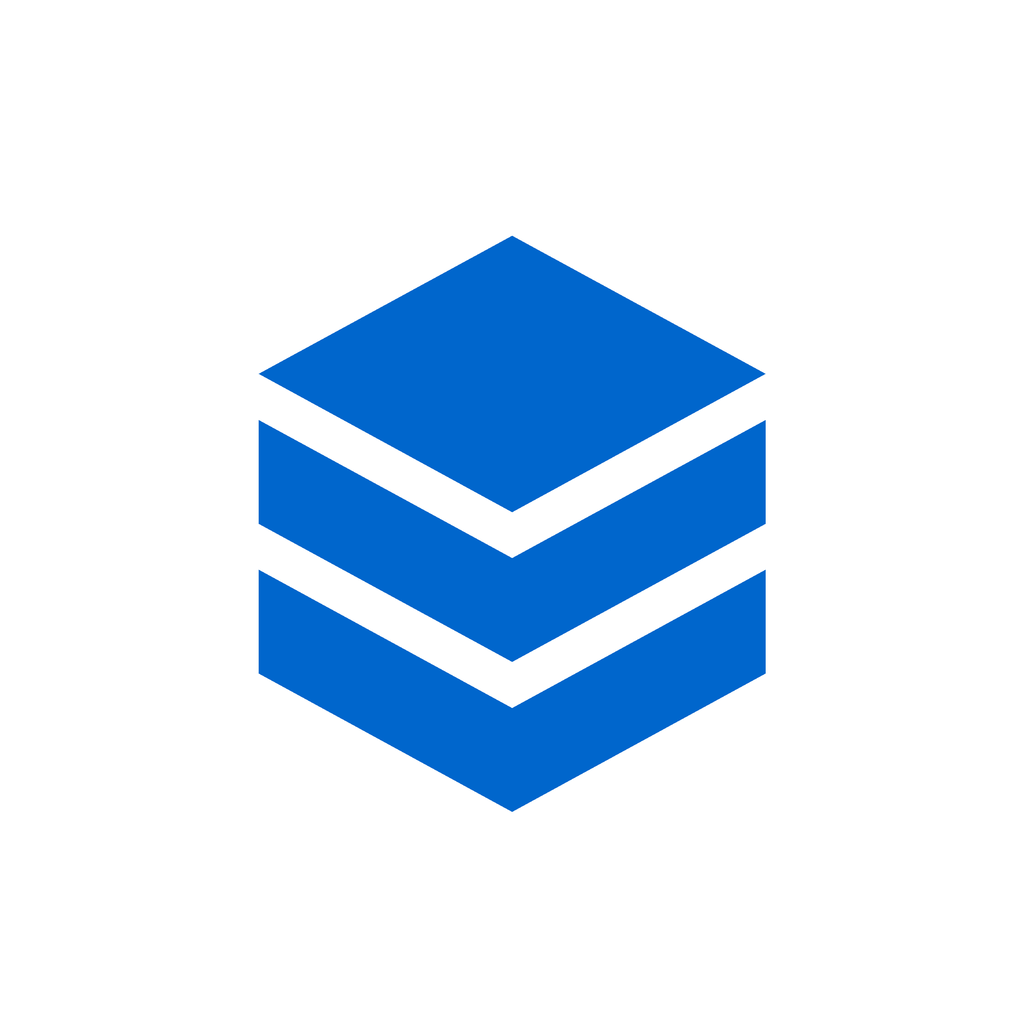
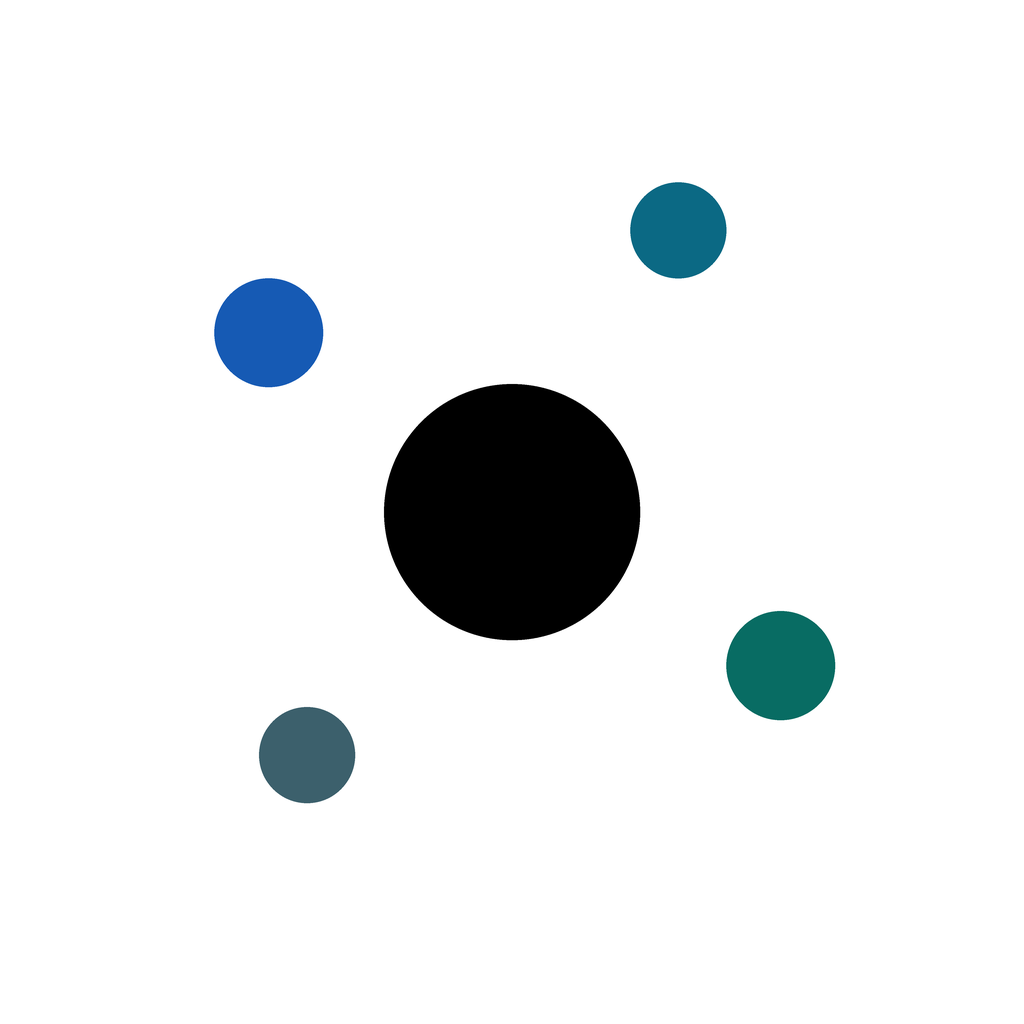
Refine memory mark and hide missing update timestamps

Changed region(s): [[0.1875, 0.1562, 0.8125, 0.8125]]

diff --git a/app/src/components/icons.tsx b/app/src/components/icons.tsx
@@ -1,5 +1,6 @@
 import { Pressable, View } from "react-native";
-import Svg, { Path, Rect } from "react-native-svg";
+import Svg, { Circle, Path } from "react-native-svg";
+import { markColors, markGeometry } from "../../lib/mark";
 import { useTheme } from "../theme";
 
 export type IconName = "brief" | "memory" | "search" | "status" | "settings" | "plus" | "chevron" | "refresh" | "close" | "link";
@@ -30,9 +31,9 @@ export function IconButton({ name, label, onPress, disabled }: { name: IconName;
 }
 export function Mark({ small = false }: { small?: boolean }) {
   const t = useTheme();
-  return <View accessibilityLabel="Metaharness"><Svg width={small ? 24 : 44} height={small ? 24 : 44} viewBox="0 0 64 64" aria-hidden>
-    <Path d="M10 37 32 49 54 37v9L32 58 10 46z" fill={t.accent} />
-    <Path d="M10 24 32 36 54 24v9L32 45 10 33z" fill={t.accent} />
-    <Path d="M10 20 32 8 54 20 32 32z" fill={t.accent} />
+  const colors = markColors(t.dark);
+  return <View accessibilityLabel="Metaharness"><Svg testID="memory-mark" width={small ? 29 : 44} height={small ? 29 : 44} viewBox={`0 0 ${markGeometry.size} ${markGeometry.size}`} aria-hidden>
+    {markGeometry.agents.map((agent, index) => <Circle key={agent.source} cx={agent.x} cy={agent.y} r={agent.radius} fill={colors.agents[index]} />)}
+    <Circle cx={markGeometry.center.x} cy={markGeometry.center.y} r={markGeometry.center.radius} fill={colors.center} />
   </Svg></View>;
 }

diff --git a/app/src/app/index.tsx b/app/src/app/index.tsx
@@ -27,7 +27,7 @@ export default function Brief() {
       {parsed.preamble ? <View style={{ marginBottom: 16 }}><Markdown text={parsed.preamble} /></View> : null}
       {value.status && value.status.pending_notes > 0 ? <Txt muted style={{ fontSize: 13, marginBottom: 16 }}>{value.status.pending_notes} {value.status.pending_notes === 1 ? "note" : "notes"} pending sync</Txt> : null}
       {parsed.sections.map((section, index) => <Collapsible key={`${index}-${section.title}`} title={sectionTitle(section.title)}
-        meta={!isJournal(section.title) ? <Txt muted style={{ fontSize: 12 }}>{synced ? `Synced ${relativeTime(synced).replace(/^(Just|Today|Yesterday|Tomorrow|In)/, word => word.toLowerCase())}` : "Update time not recorded"}</Txt> : undefined}>
+        meta={!isJournal(section.title) && synced ? <Txt muted style={{ fontSize: 12 }}>{`Synced ${relativeTime(synced).replace(/^(Just|Today|Yesterday|Tomorrow|In)/, word => word.toLowerCase())}`}</Txt> : undefined}>
         {isJournal(section.title) ? <JournalContent text={section.text} /> : <Markdown text={section.text} />}
       </Collapsible>)}
       {!value.context.trim() ? <Empty title="No shared context yet" action={<Action label="Remember" onPress={openCapture} />} /> : null}

diff --git a/app/src/components/provenance.tsx b/app/src/components/provenance.tsx
@@ -15,7 +15,7 @@ export function Provenance({ source, timestamp, dateOnly = false, file }: { sour
       <Txt style={{ color: colors.foreground, fontSize: 12, lineHeight: 18, fontWeight: "600" }}>{source}</Txt>
     </View> : <Txt muted style={{ fontSize: 12, lineHeight: 18 }}>Author not recorded</Txt>}
     {file ? <Txt mono muted>{file}</Txt> : null}
-    <Txt testID="provenance-time" muted style={{ fontSize: 12, lineHeight: 18 }} accessibilityLabel={timestamp ? `Recorded ${timestamp}` : undefined}>{relativeTime(timestamp, dateOnly, now)}</Txt>
+    {timestamp && Number.isFinite(Date.parse(timestamp)) ? <Txt testID="provenance-time" muted style={{ fontSize: 12, lineHeight: 18 }} accessibilityLabel={`Recorded ${timestamp}`}>{relativeTime(timestamp, dateOnly, now)}</Txt> : null}
   </View>;
 }
 export function JournalContent({ text }: { text: string }) {

diff --git a/app/lib/mark.ts b/app/lib/mark.ts
@@ -1,0 +1,21 @@
+import { sourceColors } from "./provenance.ts";
+
+// Shared vector geometry for the native logo and every exported asset.
+// Separate agent observations converge on one larger, neutral memory dot.
+export const markGeometry = {
+  size: 64,
+  center: { x: 32, y: 32, radius: 10 },
+  agents: [
+    { source: "codex", x: 13, y: 18, radius: 4.25 },
+    { source: "claude-code", x: 45, y: 10, radius: 3.75 },
+    { source: "cli", x: 53, y: 44, radius: 4.25 },
+    { source: "interview", x: 16, y: 51, radius: 3.75 },
+  ],
+};
+
+export function markColors(dark: boolean) {
+  return {
+    center: dark ? "#FFFFFF" : "#000000",
+    agents: markGeometry.agents.map(agent => sourceColors(agent.source, dark).foreground),
+  };
+}

diff --git a/app/scripts/make-assets.py b/app/scripts/make-assets.py
@@ -1,27 +1,46 @@
-"""Render the layered-memory symbol. Pillow is only an authoring dependency."""
+"""Render the shared agent-and-memory mark. Requires Node and Pillow."""
+import json
+import subprocess
 from pathlib import Path
 from PIL import Image, ImageDraw
 
-OUT = Path(__file__).resolve().parent.parent / "assets"
+APP = Path(__file__).resolve().parent.parent
+OUT = APP / "assets"
 OUT.mkdir(exist_ok=True)
-LAYERS = [
-    [(10, 37), (32, 49), (54, 37), (54, 46), (32, 58), (10, 46)],
-    [(10, 24), (32, 36), (54, 24), (54, 33), (32, 45), (10, 33)],
-    [(10, 20), (32, 8), (54, 20), (32, 32)],
-]
+# The SVG logo and raster exports use identical geometry and source colors.
+DATA = json.loads(subprocess.check_output([
+    "node", "--experimental-strip-types", "--input-type=module", "-e",
+    "import {pathToFileURL} from 'node:url'; "
+    "const {markGeometry,markColors}=await import(pathToFileURL(process.argv[1]).href); "
+    "process.stdout.write(JSON.stringify({geometry:markGeometry,light:markColors(false),dark:markColors(true)}));",
+    str(APP / "lib/mark.ts"),
+], text=True))
 
 
-def mark(size, background, foreground):
-    canvas = Image.new("RGB", (size * 3, size * 3), background)
+def mark(size, dark=False, inset=0.1):
+    canvas = Image.new("RGB", (size * 4, size * 4), "#000000" if dark else "#FFFFFF")
     draw = ImageDraw.Draw(canvas)
-    scale = size * 3 * 0.72 / 64
-    offset = size * 3 * 0.14
-    for points in LAYERS:
-        draw.polygon([(round(offset + x * scale), round(offset + y * scale)) for x, y in points], fill=foreground)
+    geometry = DATA["geometry"]
+    colors = DATA["dark" if dark else "light"]
+    scale = size * 4 * (1 - 2 * inset) / geometry["size"]
+    offset = size * 4 * inset
+    def dot(point, color):
+        x, y, radius = offset + point["x"] * scale, offset + point["y"] * scale, point["radius"] * scale
+        draw.ellipse((x - radius, y - radius, x + radius, y + radius), fill=color)
+    for point, color in zip(geometry["agents"], colors["agents"]):
+        dot(point, color)
+    dot(geometry["center"], colors["center"])
     return canvas.resize((size, size), Image.Resampling.LANCZOS)
 
 
-mark(1024, "#FFFFFF", "#0066CC").save(OUT / "icon.png")
-mark(256, "#FFFFFF", "#0066CC").save(OUT / "favicon.png")
-mark(1024, "#FFFFFF", "#0066CC").save(OUT / "splash.png")
-mark(1024, "#000000", "#64ABFF").save(OUT / "splash-dark.png")
+mark(1024).save(OUT / "icon.png")
+mark(256).save(OUT / "favicon.png")
+mark(1024).save(OUT / "splash.png")
+mark(1024, dark=True).save(OUT / "splash-dark.png")
+
+# Inspect the asset and the in-app mark at the actual small target size.
+proof = APP / "verification"
+proof.mkdir(exist_ok=True)
+mark(29).save(proof / "icon-29.png")
+mark(29, inset=0).save(proof / "mark-29-light.png")
+mark(29, dark=True, inset=0).save(proof / "mark-29-dark.png")

diff --git a/app/VERIFICATION.md b/app/VERIFICATION.md
@@ -1,6 +1,6 @@
 # Verification
 
-Redesign verified locally on 2026-10-29. No release, login, push, or cloud build was performed.
+Redesign and mark/timestamp follow-up verified locally on 2026-10-29. No release, login, push, or cloud build was performed.
 
 | Check | Result |
 | --- | --- |
@@ -13,16 +13,17 @@ Redesign verified locally on 2026-10-29. No release, login, push, or cloud build
 | Dependency compatibility | `expo install --check` passed; native animation peers match SDK 57 |
 | Native configuration | No permission usage descriptions, owner, or EAS project ID; tablet support and encryption declaration verified |
 | Native shortcuts | Local Expo module autolinking, Swift parsing, and podspec syntax passed; hardware delivery not runtime-tested |
-| Assets | Opaque RGB icon and both splash images are 1024 × 1024 |
+| Assets | Shared five-dot geometry and real provenance colors; opaque RGB icon and both splash images are 1024 × 1024, favicon is 256 × 256; inspected at 29px and 1024px |
 | Browser | All 8 combinations passed: demo/local hub × 390/1440px × light/dark |
 | Browser errors | Zero console errors and zero page errors across the matrix |
 | Provenance | Real source labels and relative dates displayed; agent foreground/background colors match between Memory and Search |
+| Missing timestamps | No placeholder update labels; demo Brief omits sync dates, local Brief shows real sync dates, and undated notes omit their date |
 | Desktop web shortcuts | Both Cmd+K and Ctrl+K open Remember in all four desktop cases |
 | Local round trip | Four app captures imported into a separate curator journal by `mh tick`; source/kind verified and pending count acknowledged to zero |
 | Privacy | Only the intended bundle identifier and 8 dependency metadata substring matches; no private data |
 | UI source leftovers | No removed display fonts, uppercase eyebrow styles, numbered navigation, slogan strings, or period-ended screen titles |
 
-The browser checks use fresh temporary HOME and MH_HOME directories, real HTTP requests to `mh serve`, and the exported static app. They seed fictional notes with actual source metadata, then cover onboarding, testing the connection, persistence, collapsible brief, refresh, curated sections, grouped search, provenance, capture, sync status, keyboard shortcuts, and disconnect. Screenshots were regenerated and visually inspected for both viewport sizes and color schemes; no horizontal page overflow was detected.
+The browser checks use fresh temporary HOME and MH_HOME directories, real HTTP requests to `mh serve`, and the exported static app. They seed fictional notes with actual source metadata, then cover onboarding, testing the connection, persistence, collapsible brief, refresh, curated sections, grouped search, provenance, capture, sync status, keyboard shortcuts, and disconnect. They also check the five-dot logo, its 29px sidebar size, and the absence of missing-date placeholders. Screenshots were regenerated and visually inspected for both viewport sizes and color schemes; no horizontal page overflow was detected.
 
 Requested screenshots in `verification/`:
 

diff --git a/app/README.md b/app/README.md
@@ -77,4 +77,4 @@ The browser check starts a static preview and an actual local `mh serve` with te
 
 `expo export -p ios` verifies the iOS JavaScript bundle and assets; it is not an Xcode compile, signed IPA, or device/TestFlight test. Native secure storage and OS deep-link delivery should also be exercised on a device before release.
 
-The icon is an opaque 1024px geometric mark. The splash uses the mark on a plain light or dark background. `python3 scripts/make-assets.py` regenerates the assets with Pillow (asset-authoring only, not an app dependency).
+The icon shows four agent dots in their provenance colors around one solid memory dot, on an opaque white 1024px canvas. The in-app logo and raster assets share geometry and colors from `lib/mark.ts`. The splash uses the same mark on a plain light or dark background. `python3 scripts/make-assets.py` regenerates the assets and 29px inspection images using Node and Pillow (Pillow is asset-authoring only, not an app dependency).
